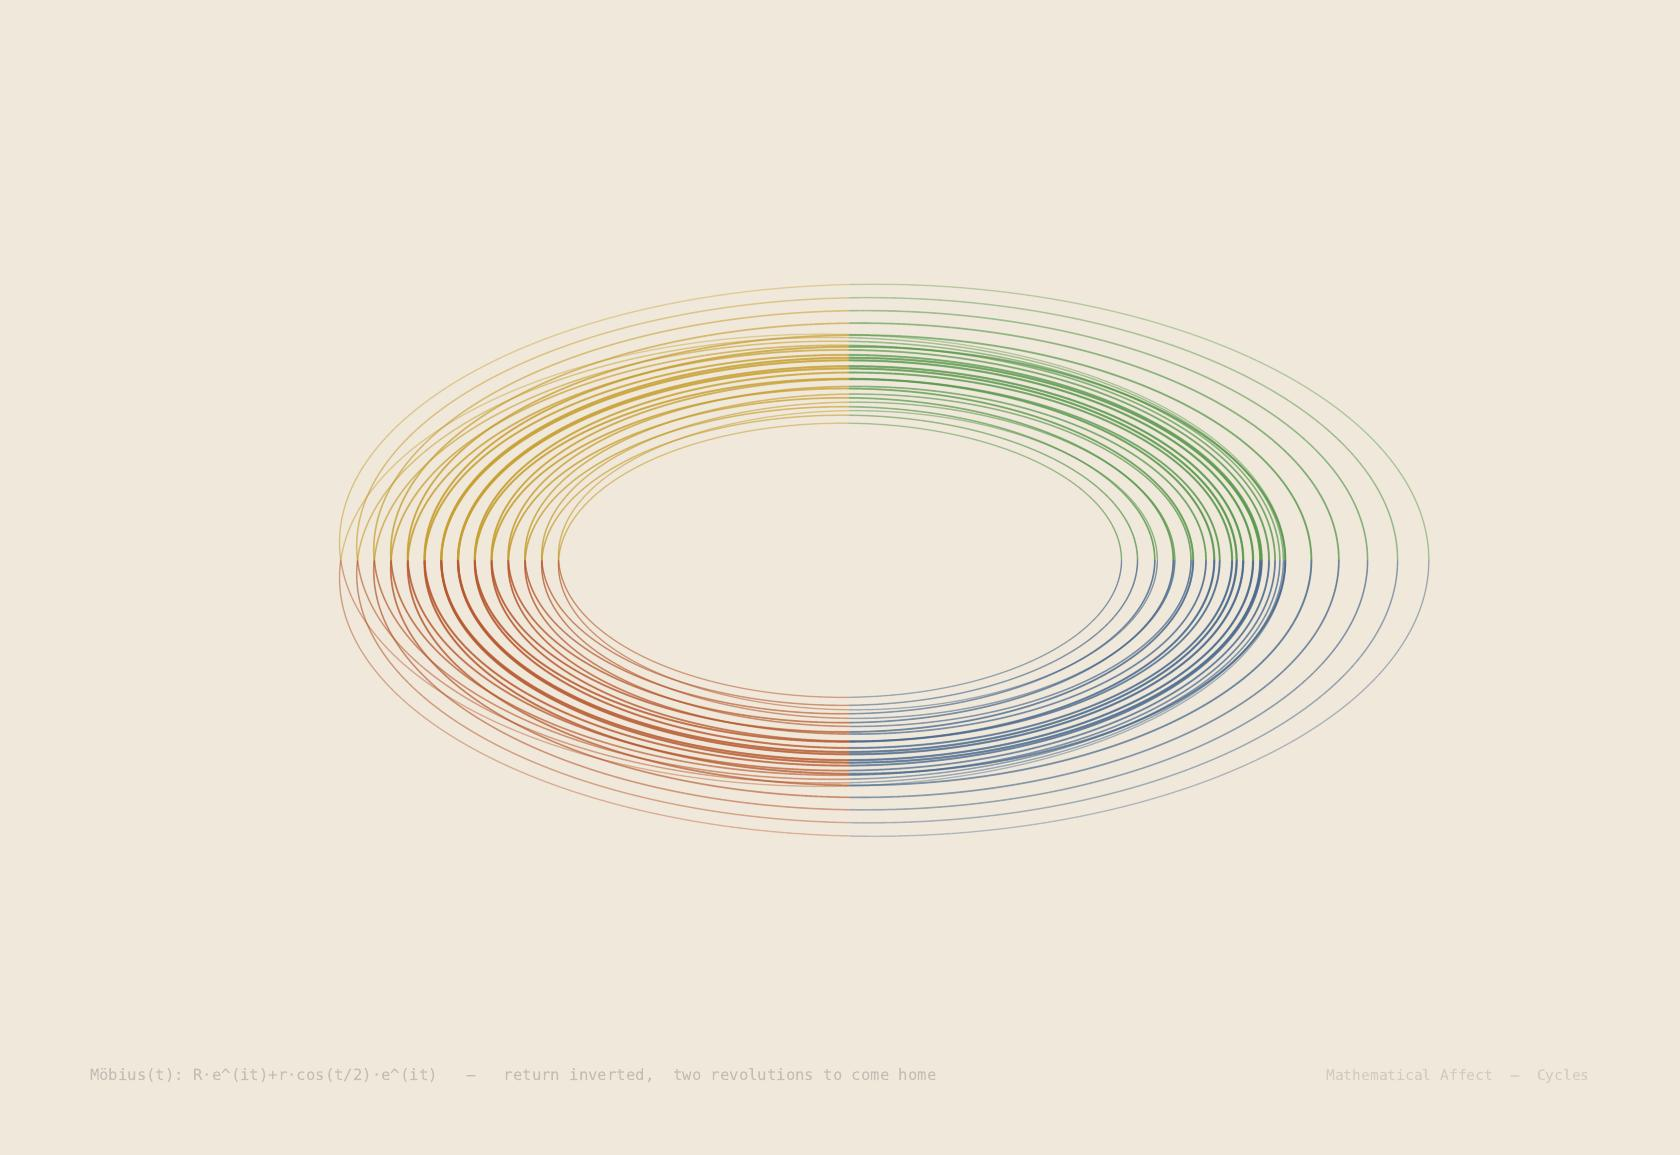
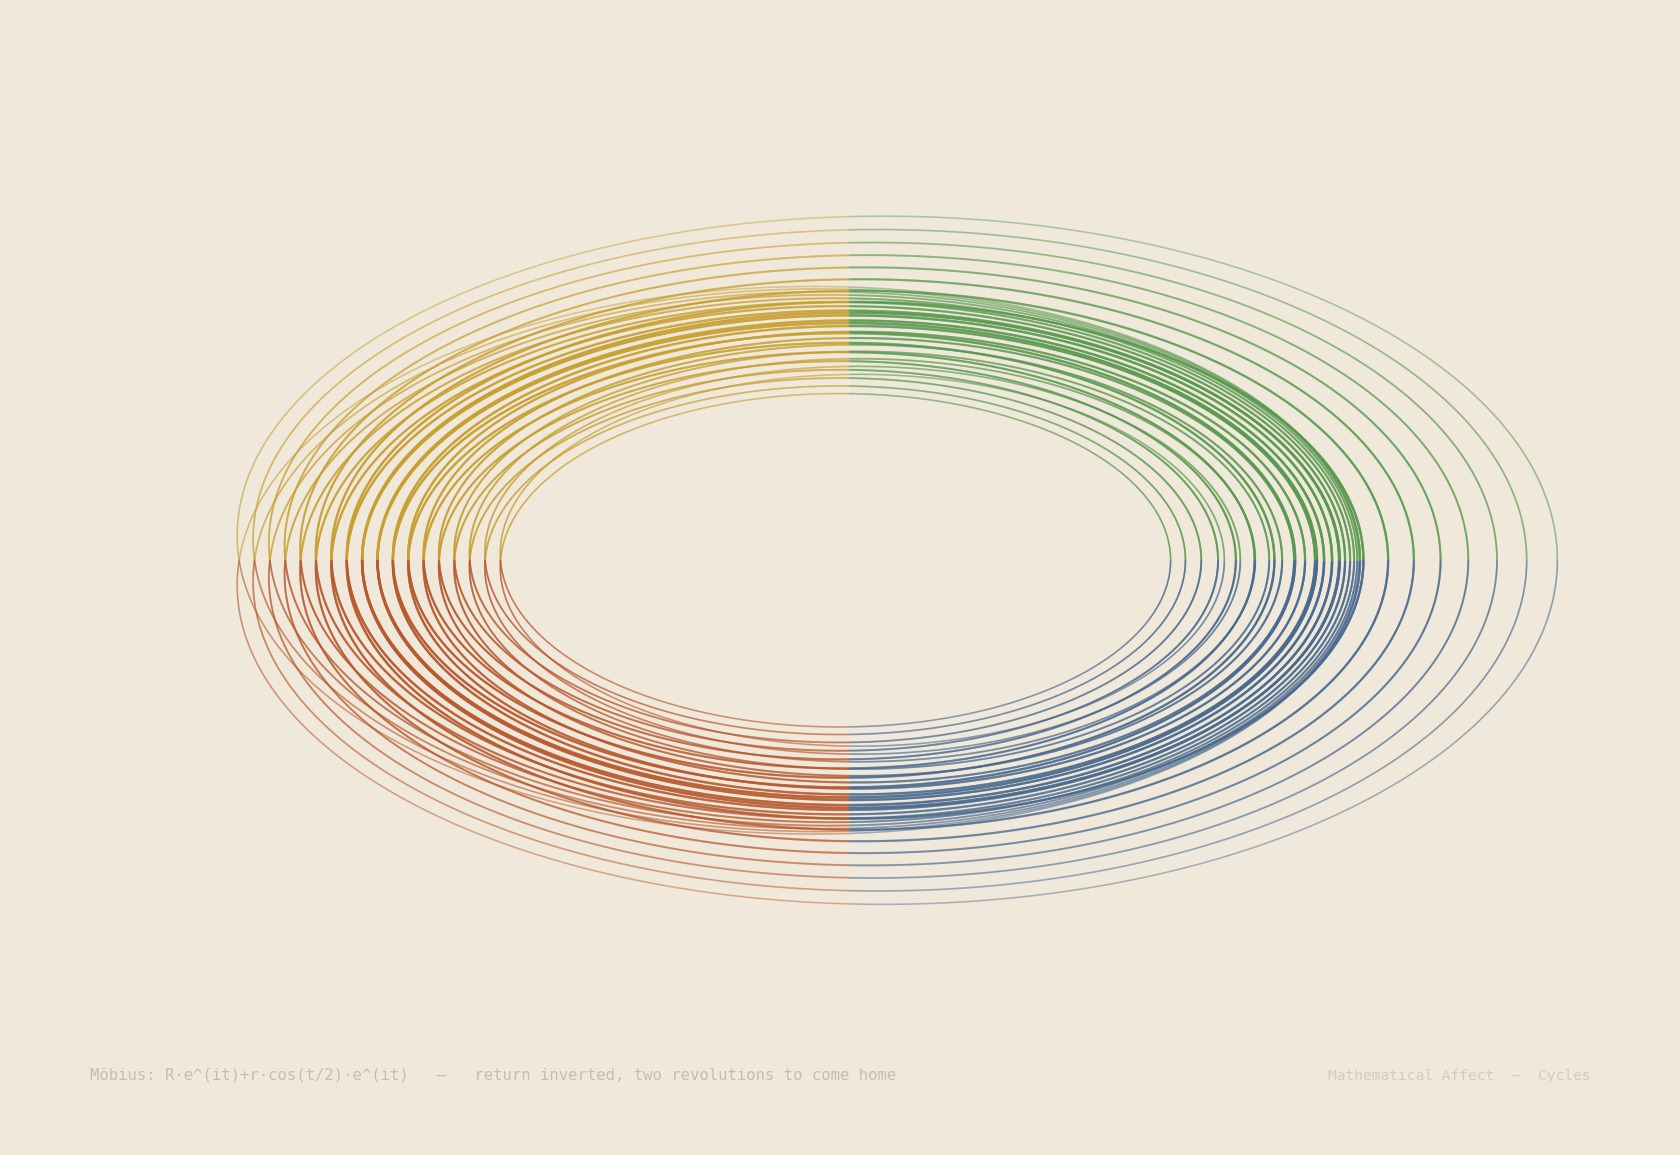
Update CYCLES series with 11 curated pieces
Seasons, Toroid, Loom, Möbius, Phase Portrait, Rosette, Breathing,
Orbit, Recurrence, Pulse Train, and Tidal. Phase portrait revised
with more trajectories filling the canvas. Background updated to
warm parchment (#F0E8DA) with seasonal color palette.

Changed region(s): [[0.1238, 0.187, 0.8976, 0.7792]]

diff --git a/src/data/series.ts b/src/data/series.ts
@@ -175,15 +175,21 @@ export const series: Series[] = [
     description: "Closed orbits, phase portraits, Möbius topology, and recurrence plots. Mathematics that loops — systems that always return, never quite the same way twice.",
     story: "The universe is built on cycles. Seasons, tides, heartbeats, orbits — patterns that return without being asked. This series renders the geometry of return: phase portraits that close, orbits that repeat, and Möbius strips that have no beginning or end.",
     mathematicalPrimitive: "closed orbits, phase portraits, Möbius topology, recurrence",
-    background: "#E8E4DA",
-    palette: ["#4A6B8A", "#6B8BAA", "#8AABCA", "#3A5B7A", "#2A4B6A"],
-    makingOf: "55 renders. 5 survived.",
+    background: "#F0E8DA",
+    palette: ["#5A9A50", "#C8A030", "#B85A30", "#4A6A90"],
+    makingOf: "60 renders. 11 survived.",
     pieces: [
-      { id: "cycles-loom", title: "Loom", series: "cycles", equation: "x(t) = x(t + T), T = 2π/ω", description: "Periodic trajectories woven together — threads that repeat at exact intervals, creating fabric from rhythm.", emotionalNote: "Threads that return to the same place and weave something new", background: "#E8E4DA", imageUrl: "/prints/cycles/cycles_loom.jpg", gumroadUrl: "https://gumroad.com/l/placeholder", price: 22 },
-      { id: "cycles-moebius", title: "Moebius", series: "cycles", equation: "r(t) = ((2 + cos(t/2))cos t, (2 + cos(t/2))sin t, sin(t/2))", description: "The Möbius strip — a surface with only one side. You must traverse it twice to return to where you started.", emotionalNote: "A loop that requires two passes to complete", background: "#E8E4DA", imageUrl: "/prints/cycles/cycles_moebius.jpg", gumroadUrl: "https://gumroad.com/l/placeholder", price: 22 },
-      { id: "cycles-orbit", title: "Orbit", series: "cycles", equation: "r(θ) = a(1-e²)/(1 + e cos θ)", description: "Kepler's orbital equation — the ellipse traced by every planet. Always returning, never arriving.", emotionalNote: "Always returning, never arriving", background: "#E8E4DA", imageUrl: "/prints/cycles/cycles_orbit.jpg", gumroadUrl: "https://gumroad.com/l/placeholder", price: 22 },
-      { id: "cycles-phase-portrait", title: "Phase Portrait", series: "cycles", equation: "ẋ = f(x,y), ẏ = g(x,y)", description: "The phase portrait of a dynamical system — every possible trajectory drawn in the same plane. Closed curves are the cycles.", emotionalNote: "Every possible future drawn at once", background: "#E8E4DA", imageUrl: "/prints/cycles/cycles_phase_portrait.jpg", gumroadUrl: "https://gumroad.com/l/placeholder", price: 22 },
-      { id: "cycles-recurrence", title: "Recurrence", series: "cycles", equation: "R(i,j) = Θ(ε - ||x_i - x_j||)", description: "A recurrence plot — marking every moment a system returns close to a previous state. The dark bands reveal hidden periodicity.", emotionalNote: "Every moment the past returns close enough to recognize", background: "#E8E4DA", imageUrl: "/prints/cycles/cycles_recurrence.jpg", gumroadUrl: "https://gumroad.com/l/placeholder", price: 22 },
+      { id: "cycles-seasons", title: "Seasons", series: "cycles", equation: "T(t) = T̄ + A·sin(2πt/P + φ)", description: "A sinusoidal temperature cycle — the year breathing in and out. Each layer a different year, never quite the same amplitude.", emotionalNote: "The year breathing in and out, never quite the same", background: "#F0E8DA", imageUrl: "/prints/cycles/cycles_seasons.jpg", gumroadUrl: "https://gumroad.com/l/placeholder", price: 22 },
+      { id: "cycles-toroid", title: "Toroid", series: "cycles", equation: "(x²+y²+z²+R²−r²)² = 4R²(x²+y²)", description: "Cross-sections of a torus — nested loops at different angles through the surface of return. A cycle within a cycle.", emotionalNote: "A cycle within a cycle, endlessly nested", background: "#F0E8DA", imageUrl: "/prints/cycles/cycles_toroid.jpg", gumroadUrl: "https://gumroad.com/l/placeholder", price: 22 },
+      { id: "cycles-loom", title: "Loom", series: "cycles", equation: "x(t) = x(t + T), T = 2π/ω", description: "Warp and weft woven from periodic functions — threads that repeat at exact intervals, creating fabric from rhythm.", emotionalNote: "Threads that return to the same place and weave something new", background: "#F0E8DA", imageUrl: "/prints/cycles/cycles_loom.jpg", gumroadUrl: "https://gumroad.com/l/placeholder", price: 22 },
+      { id: "cycles-moebius", title: "Möbius", series: "cycles", equation: "R·eⁱᵗ + r·cos(t/2)·eⁱᵗ", description: "The Möbius strip — a surface with only one side. You must traverse it twice to return to where you started.", emotionalNote: "A loop that requires two passes to complete", background: "#F0E8DA", imageUrl: "/prints/cycles/cycles_moebius.jpg", gumroadUrl: "https://gumroad.com/l/placeholder", price: 22 },
+      { id: "cycles-phase-portrait", title: "Phase Portrait", series: "cycles", equation: "x'' − μ(1−x²)x' + x = 0", description: "Van der Pol oscillator — every trajectory spirals toward the same limit cycle. No matter where you start, you end up in the same loop.", emotionalNote: "Every possible future drawn toward the same cycle", background: "#F0E8DA", imageUrl: "/prints/cycles/cycles_phase_portrait.jpg", gumroadUrl: "https://gumroad.com/l/placeholder", price: 22 },
+      { id: "cycles-rosette", title: "Rosette", series: "cycles", equation: "r(θ) = a·cos(kθ)", description: "A rhodonea curve — petals traced by a single equation rotating through itself. The number of petals depends on k, rational or not.", emotionalNote: "One equation tracing petals that almost close", background: "#F0E8DA", imageUrl: "/prints/cycles/cycles_rosette.jpg", gumroadUrl: "https://gumroad.com/l/placeholder", price: 22 },
+      { id: "cycles-breathing", title: "Breathing", series: "cycles", equation: "r(t) = r₀ + A·sin(ωt + φ)", description: "Concentric circles expanding and contracting — the simplest cycle, like lungs filling and emptying.", emotionalNote: "The simplest cycle: expand, contract, repeat", background: "#F0E8DA", imageUrl: "/prints/cycles/cycles_breathing.jpg", gumroadUrl: "https://gumroad.com/l/placeholder", price: 22 },
+      { id: "cycles-orbit", title: "Orbit", series: "cycles", equation: "r(θ) = a(1−e²)/(1 + e·cos θ)", description: "Kepler's orbital equation — the ellipse traced by every planet. Always returning, never arriving.", emotionalNote: "Always returning, never arriving", background: "#F0E8DA", imageUrl: "/prints/cycles/cycles_orbit.jpg", gumroadUrl: "https://gumroad.com/l/placeholder", price: 22 },
+      { id: "cycles-recurrence", title: "Recurrence", series: "cycles", equation: "R(i,j) = Θ(ε − ‖xᵢ − xⱼ‖)", description: "A recurrence plot — marking every moment a system returns close to a previous state. The dark bands reveal hidden periodicity.", emotionalNote: "Every moment the past returns close enough to recognize", background: "#F0E8DA", imageUrl: "/prints/cycles/cycles_recurrence.jpg", gumroadUrl: "https://gumroad.com/l/placeholder", price: 22 },
+      { id: "cycles-pulse-train", title: "Pulse Train", series: "cycles", equation: "f(t) = Σ e^(−(t−nT)²/2σ²)", description: "Gaussian pulses repeating at regular intervals — a heartbeat rendered as math. Each pulse identical, the space between them the rhythm.", emotionalNote: "The heartbeat that repeats", background: "#F0E8DA", imageUrl: "/prints/cycles/cycles_pulse_train.jpg", gumroadUrl: "https://gumroad.com/l/placeholder", price: 22 },
+      { id: "cycles-tidal", title: "Tidal", series: "cycles", equation: "h(t) = Σ Aₙcos(ωₙt + φₙ)", description: "Tidal harmonics — the superposition of lunar and solar gravitational pulls creating the rise and fall of water.", emotionalNote: "The ocean remembering the moon", background: "#F0E8DA", imageUrl: "/prints/cycles/cycles_tidal.jpg", gumroadUrl: "https://gumroad.com/l/placeholder", price: 22 },
     ],
     bundleGumroadUrl: "https://gumroad.com/l/placeholder-cycles-bundle",
     bundlePrice: 82,
